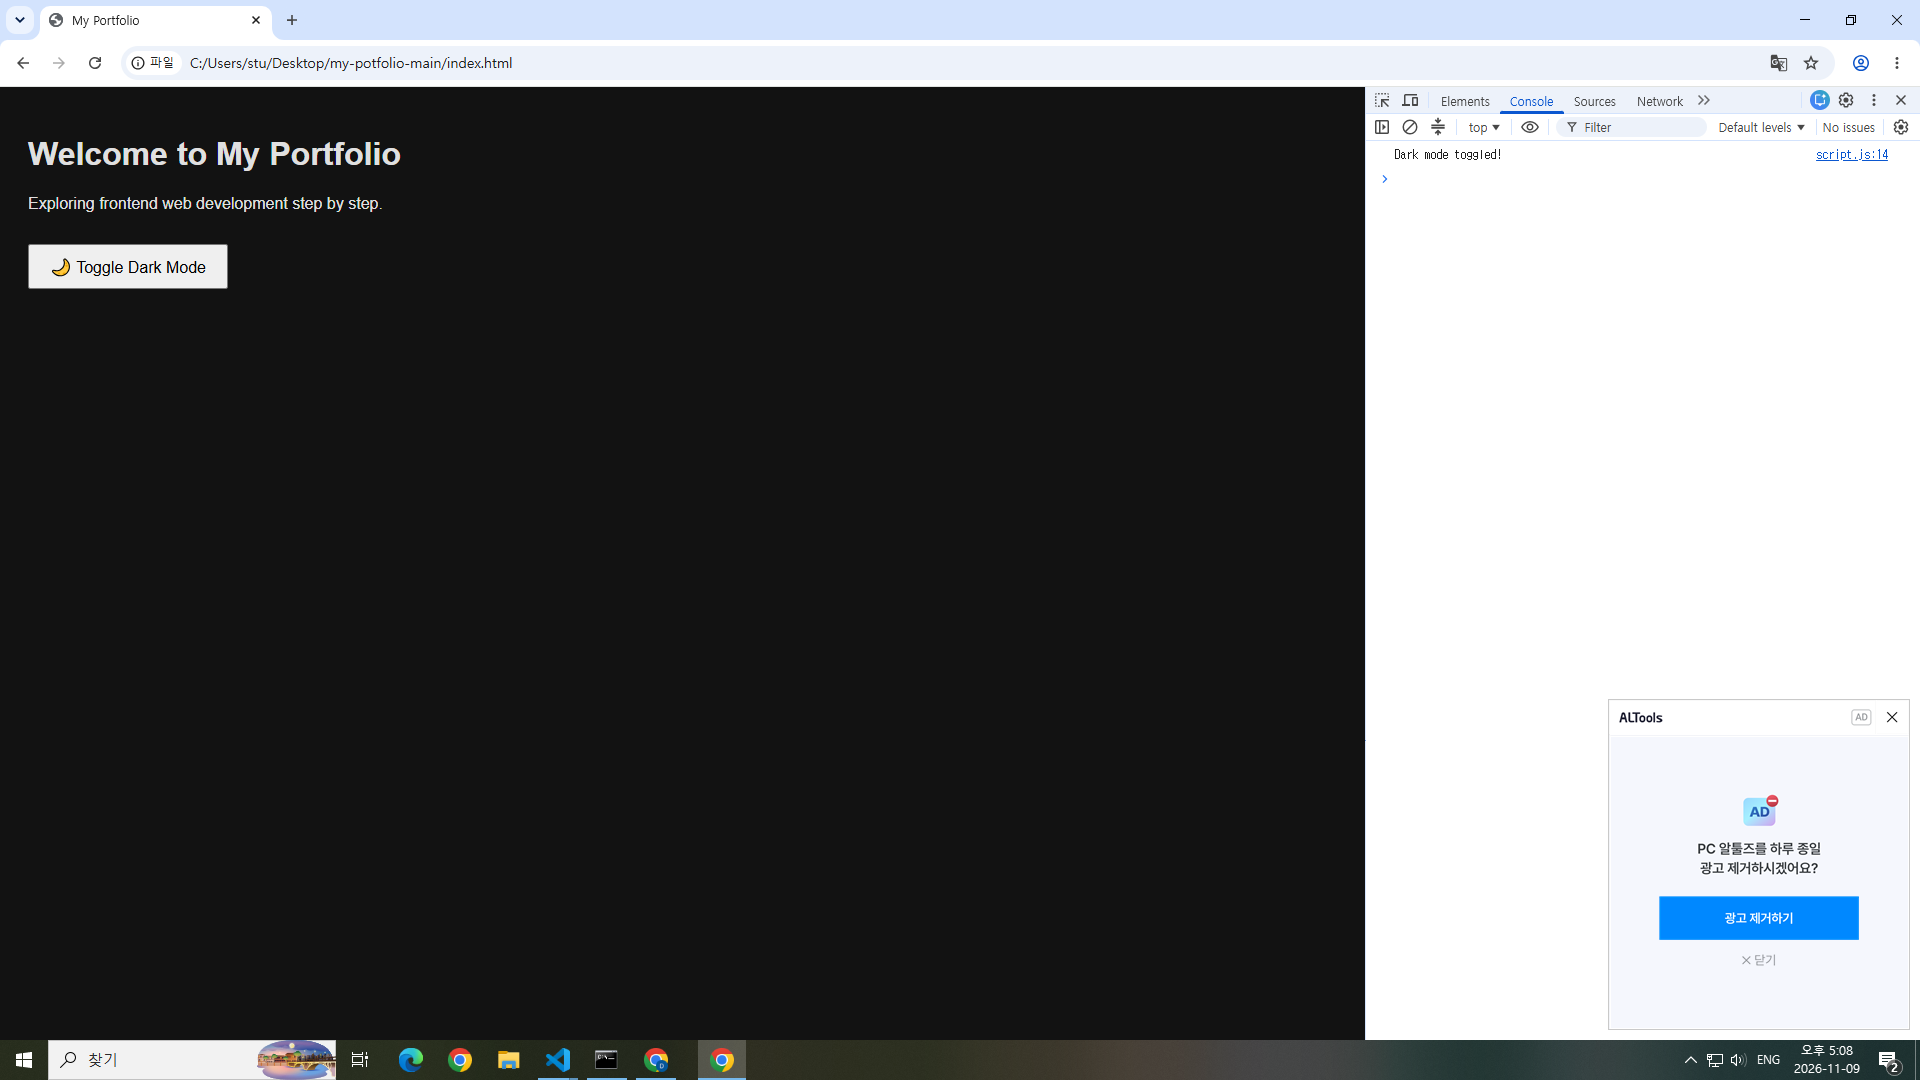
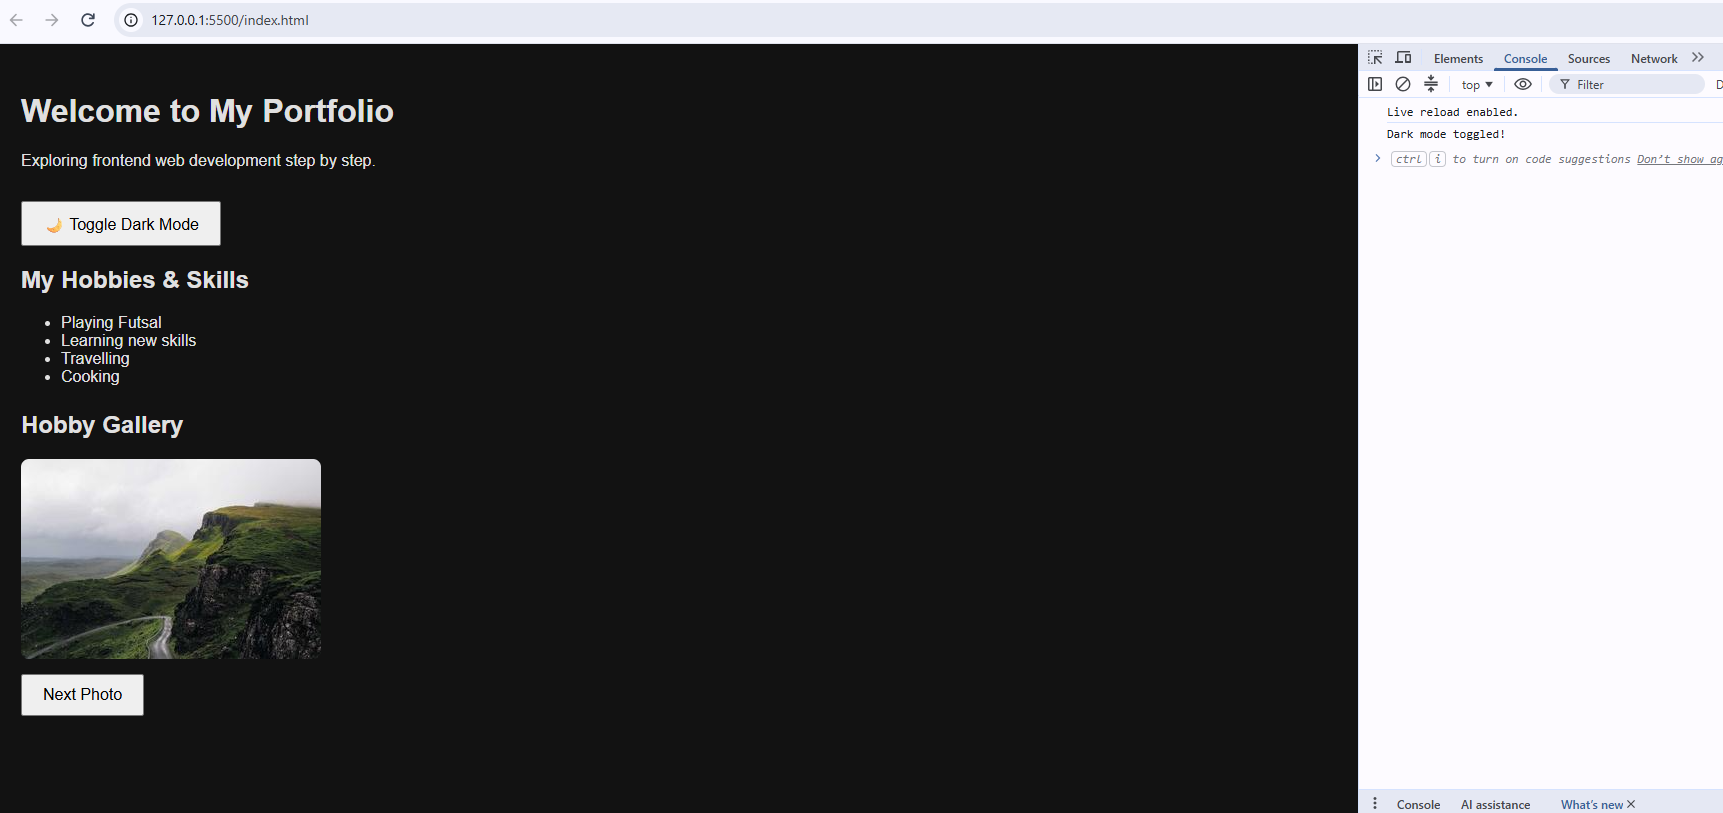
Implement hobby list rendering and photo gallery functionality

diff --git a/script.js b/script.js
@@ -13,3 +13,45 @@ themeButton.addEventListener("click", function() {
     // Optional confirmation in console
     console.log("Dark mode toggled!");
 });
+
+
+// ==========================================
+// Week 12: Arrays and Loops
+// ==========================================
+
+// --- Step 1: Hobby/Skill List Rendering (Required) ---
+const hobbies = ['Playing Futsal', 'Learning new skills', 'Travelling', 'Cooking'];
+const listContainer = document.getElementById('hobby-list');
+const ul = document.createElement('ul');
+
+for (let i = 0; i < hobbies.length; i++) {
+    const li = document.createElement('li');
+    li.textContent = hobbies[i];
+    ul.appendChild(li);
+}
+
+listContainer.appendChild(ul);
+
+
+// --- Step 2: Hobby Gallery (Extension) ---
+const galleryImages = [
+    'https://picsum.photos/id/1018/300/200',
+    'https://picsum.photos/id/1015/300/200',
+    'https://picsum.photos/id/1019/300/200'
+];
+
+let currentIndex = 0;
+const galleryImage = document.getElementById('gallery-image');
+const nextPhotoButton = document.getElementById('next-photo-btn');
+
+nextPhotoButton.addEventListener('click', function() {
+    currentIndex++;
+
+    // Reset to 0 when reaching the end of the array to prevent 'undefined'
+    if (currentIndex >= galleryImages.length) {
+        currentIndex = 0;
+    }
+
+    galleryImage.src = galleryImages[currentIndex];
+    console.log("Showing photo index:", currentIndex);
+});

diff --git a/index.html b/index.html
@@ -25,6 +25,18 @@
             font-size: 16px;
             margin-top: 15px;
         }
+
+        #gallery-section {
+            margin-top: 25px;
+        }
+
+        #gallery-image {
+            display: block;
+            width: 300px;
+            height: 200px;
+            object-fit: cover;
+            border-radius: 8px;
+        }
     </style>
 </head>
 <body>
@@ -34,6 +46,17 @@
 
     <!-- Week 11: Dark Mode Toggle Button -->
     <button id="theme-toggle">🌙 Toggle Dark Mode</button>
+
+    <!-- Week 12 Step 1: Hobby/Skill List Container -->
+    <h2>My Hobbies & Skills</h2>
+    <div id="hobby-list"></div>
+
+    <!-- Week 12 Step 2: Hobby Gallery (Extension) -->
+    <div id="gallery-section">
+        <h2>Hobby Gallery</h2>
+        <img id="gallery-image" src="https://picsum.photos/id/1018/300/200" alt="Hobby Gallery Photo">
+        <button id="next-photo-btn">Next Photo</button>
+    </div>
 
     <!-- Link your JavaScript file -->
     <script src="script.js"></script>
